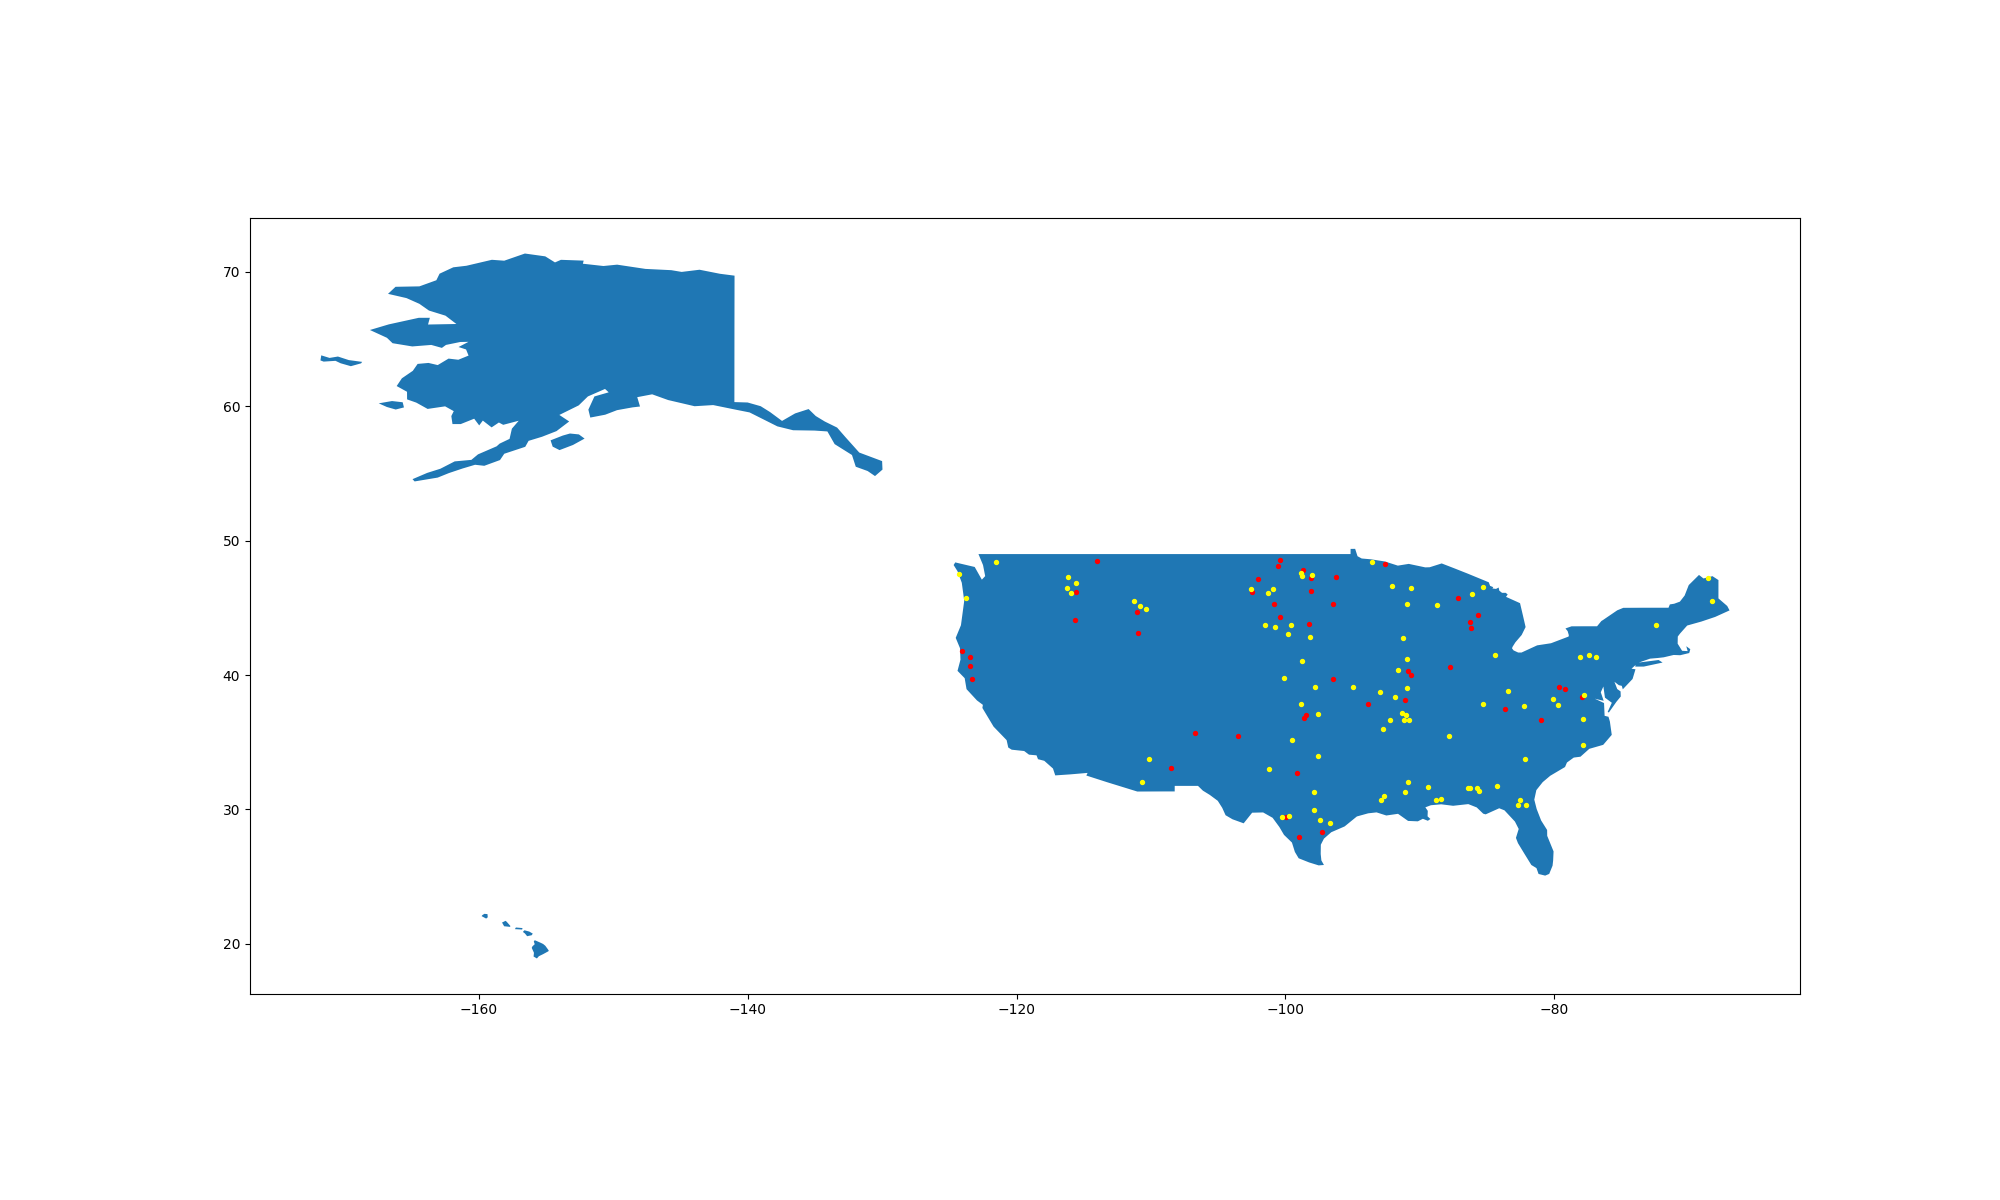
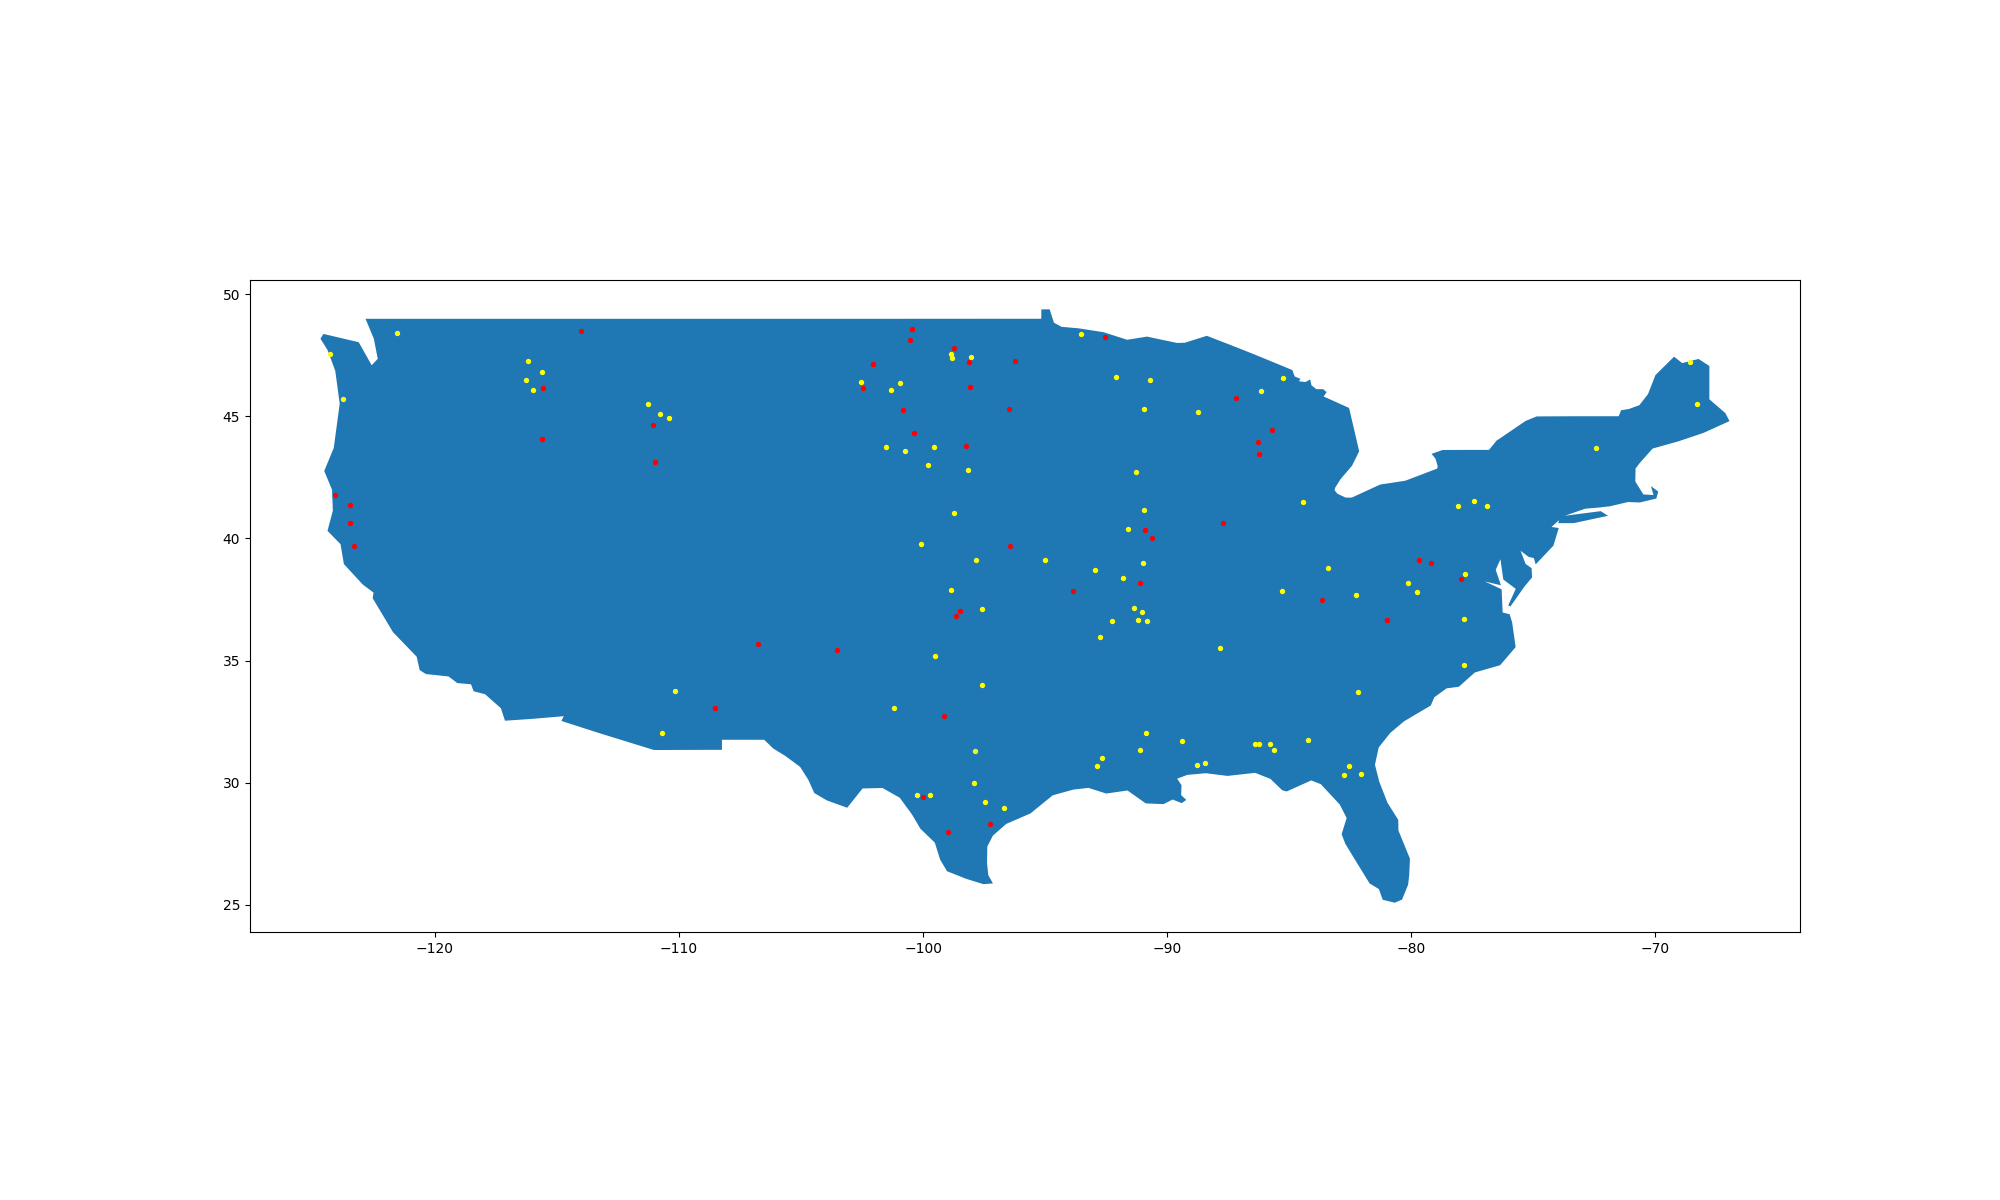
create map of not and not good basins

Changed region(s): [[0.155, 0.2158, 0.868, 0.7708], [0.248, 0.7708, 0.279, 0.8017]]

diff --git a/src/analyse_results_NSE_basins.py b/src/analyse_results_NSE_basins.py
@@ -21,6 +21,7 @@ from shapely.geometry import Point
 from shapely.geometry import Polygon
 from geopandas import GeoDataFrame
 import geopandas as gpd
+from shapely.geometry import box
 
 
 def print_locations_on_world_map(df_locations, color, use_map_axis):
@@ -40,8 +41,9 @@ def plot_lon_lat_on_world_map(csv_results_file_with_static_attr):
     df_results_label_is_zero = df_results[df_results["label"] == 0]
     df_results_label_is_one = df_results[df_results["label"] == 1]
     world = gpd.read_file(gpd.datasets.get_path('naturalearth_lowres'))
-    usa = world[world.name == 'United States of America']
-    usa = usa[usa.continent == "North America"]
+    usa = world[world.name == "United States of America"]
+    polygon = box(-127, -85, 175, 85)
+    usa = gpd.clip(usa, polygon)
     use_map_axis = usa.plot(figsize=(20, 12))
     print_locations_on_world_map(df_results_label_is_zero, "red", use_map_axis)
     print_locations_on_world_map(df_results_label_is_one, "yellow", use_map_axis)
